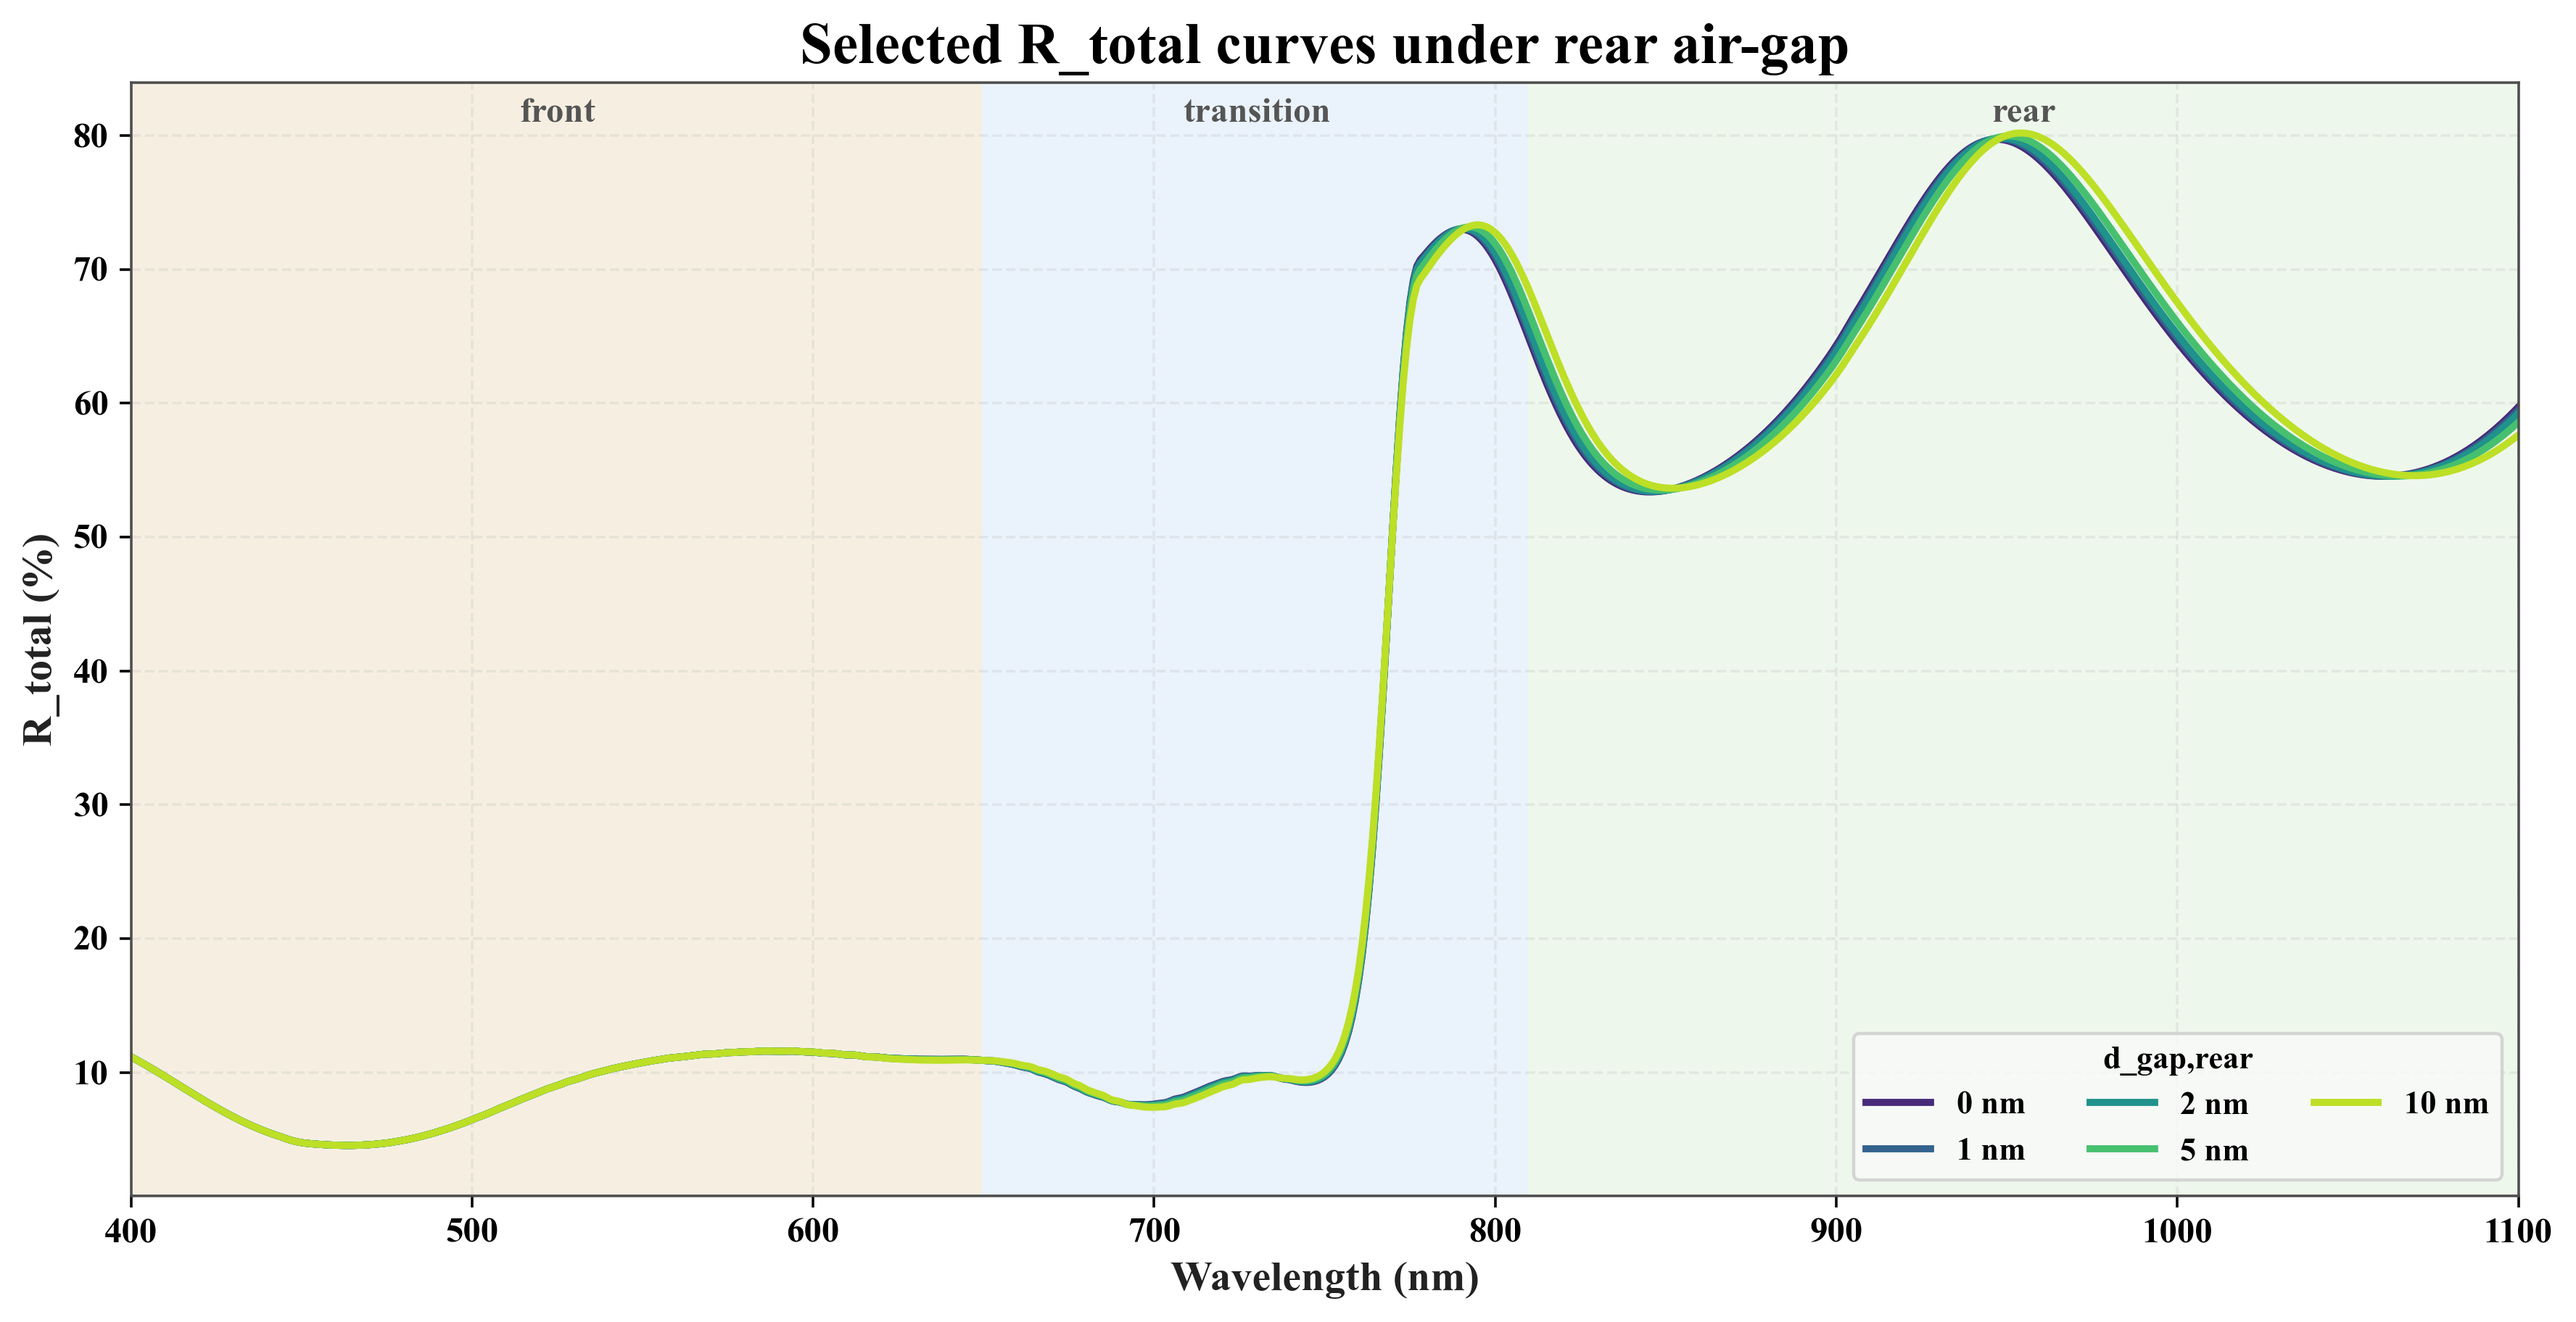
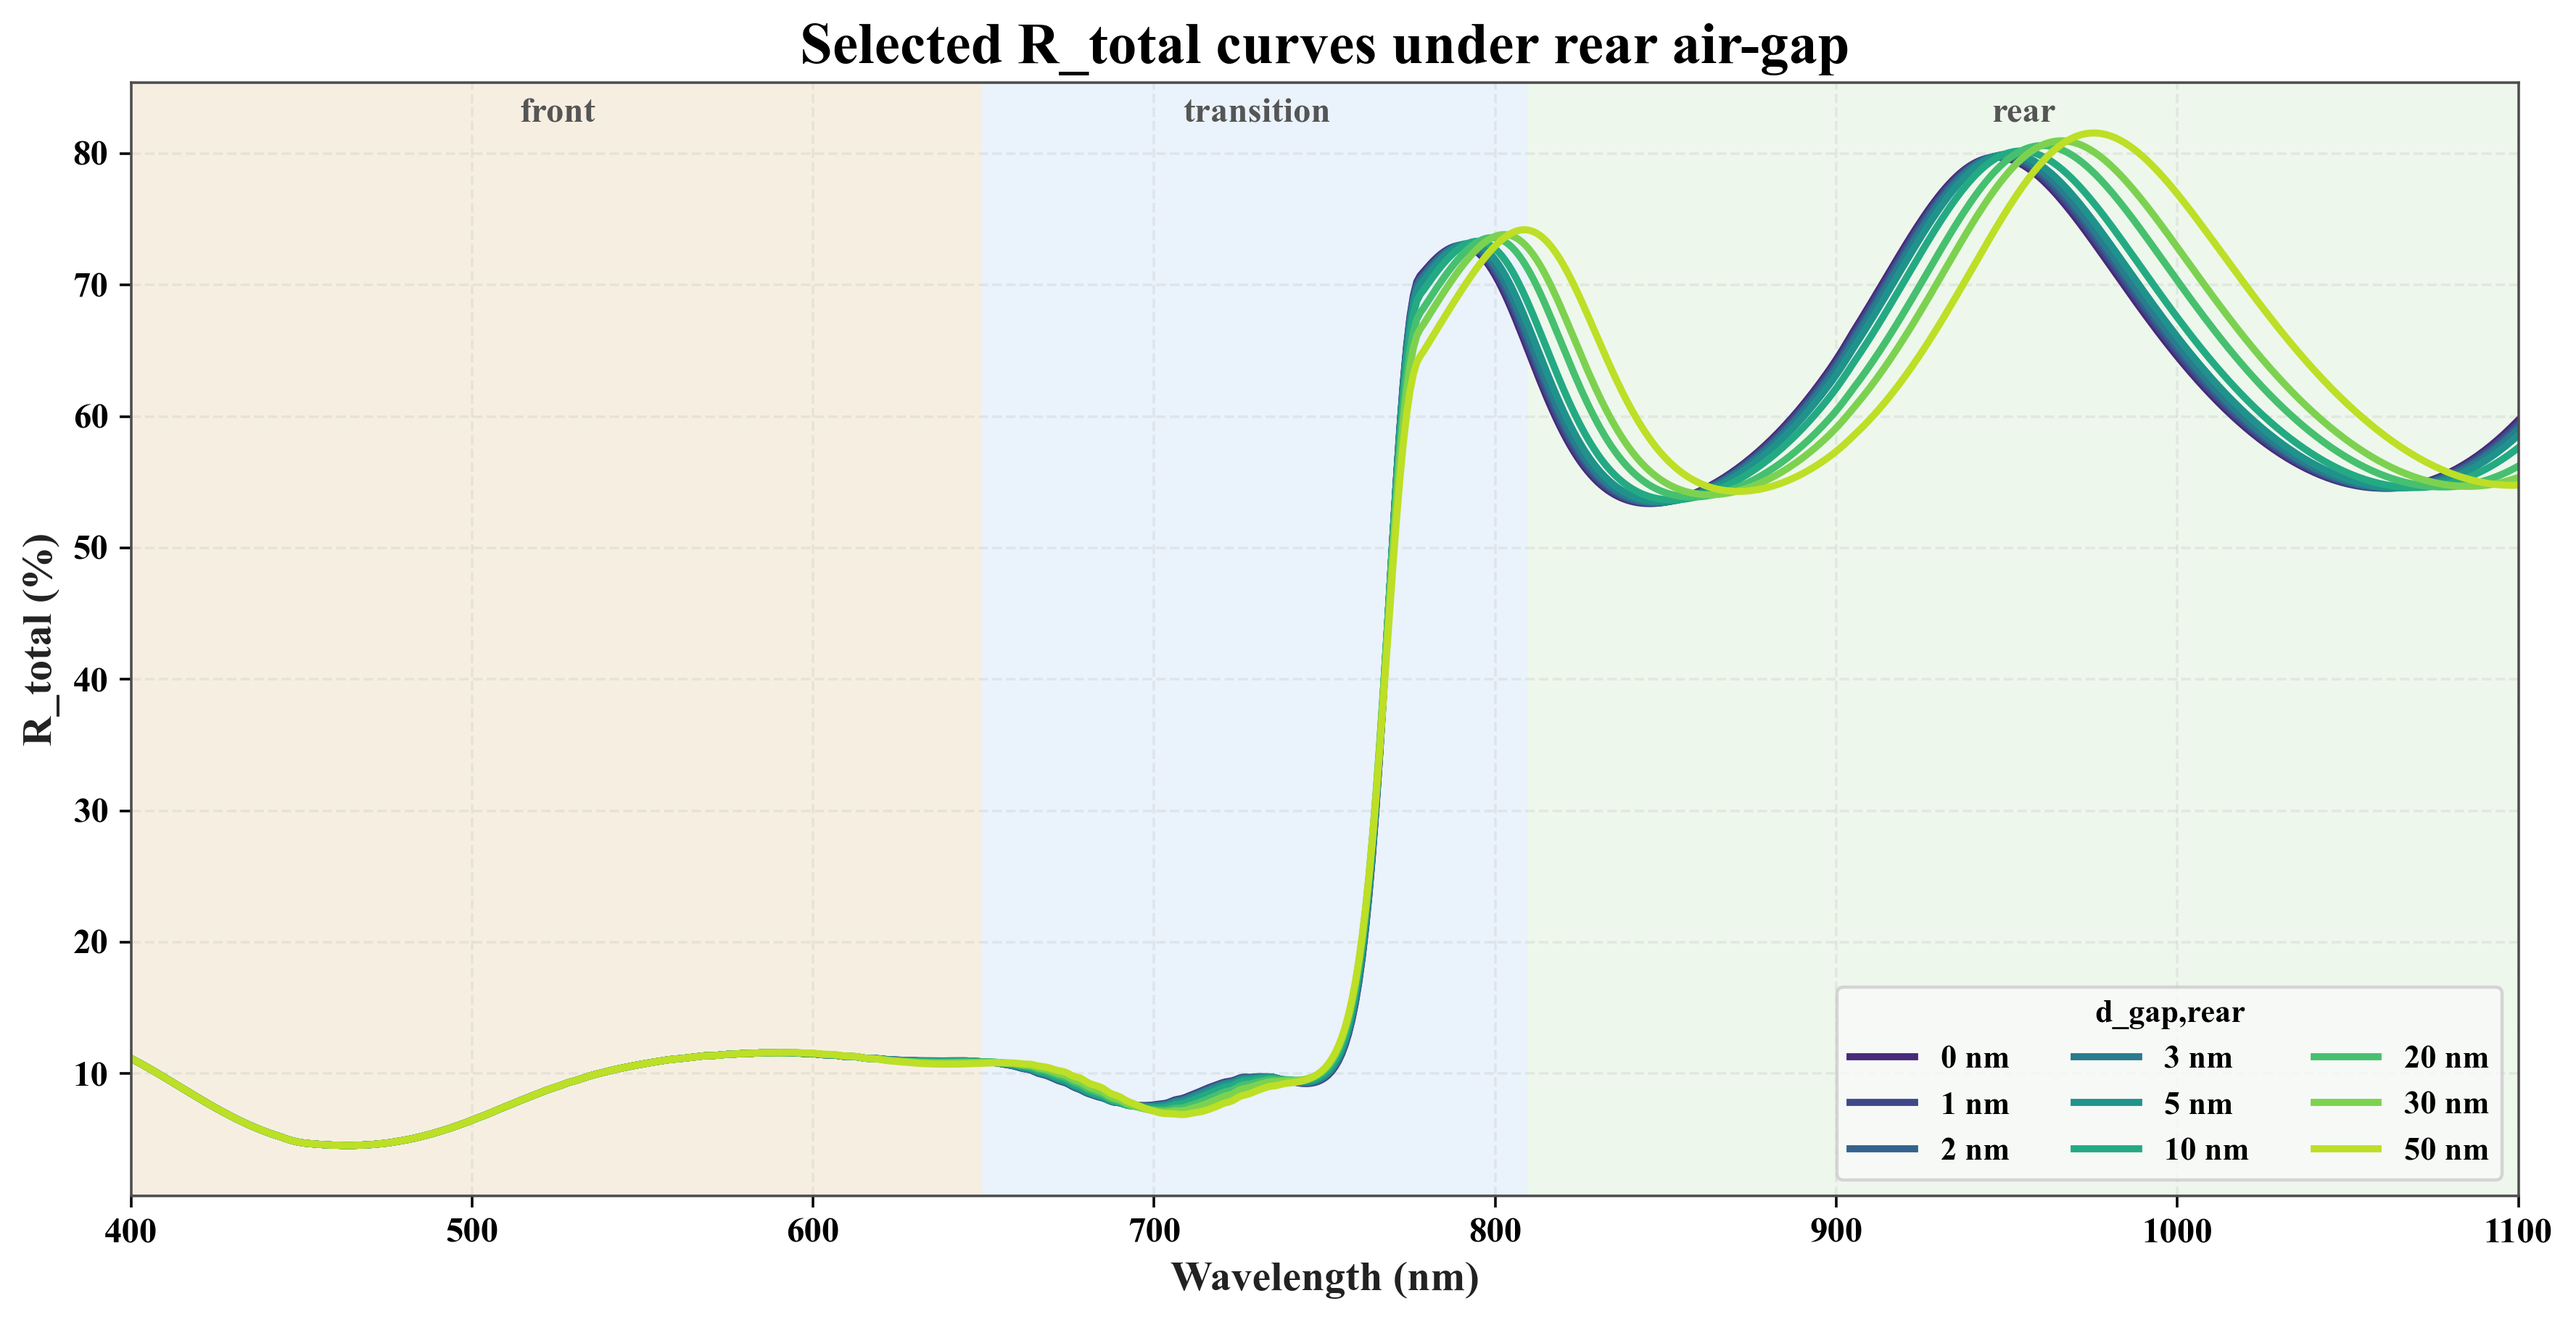
[Phase C-1b] 调整gap汇报曲线取点跨度

diff --git a/results/report/ppt_phaseAtoC_assets/07_summary/source_manifest.md b/results/report/ppt_phaseAtoC_assets/07_summary/source_manifest.md
@@ -22,5 +22,5 @@
   - thickness: `650 / 750 / 850 nm`
   - rear-BEMA: `10 / 20 / 30 nm`
   - front-BEMA: `10 / 20 nm`
-  - rear-gap: `1 / 2 / 5 / 10 nm`
-  - front-gap: `1 / 2 / 5 / 10 / 20 nm`
+  - rear-gap: `0 / 1 / 2 / 3 / 5 / 10 / 20 / 30 / 50 nm`
+  - front-gap: `0 / 1 / 2 / 3 / 5 / 10 / 20 / 30 / 50 nm`

diff --git a/results/report/ppt_phaseAtoC_assets/06_front_gap/source_manifest.md b/results/report/ppt_phaseAtoC_assets/06_front_gap/source_manifest.md
@@ -16,5 +16,5 @@
 - phase 物理对应：
   - 高亮前界面真实空气隙，表示 front-interface real separation
 - 代表参数：
-  - front-gap: `0 / 1 / 2 / 5 / 10 / 20 nm`
+  - front-gap: `0 / 1 / 2 / 3 / 5 / 10 / 20 / 30 / 50 nm`
   - observable: `R_total`

diff --git a/results/report/ppt_phaseAtoC_assets/05_rear_gap/source_manifest.md b/results/report/ppt_phaseAtoC_assets/05_rear_gap/source_manifest.md
@@ -16,5 +16,5 @@
 - phase 物理对应：
   - 高亮后界面真实空气隙，表示 rear-interface real separation
 - 代表参数：
-  - rear-gap: `0 / 1 / 2 / 5 / 10 nm`
+  - rear-gap: `0 / 1 / 2 / 3 / 5 / 10 / 20 / 30 / 50 nm`
   - observable: `R_total`
